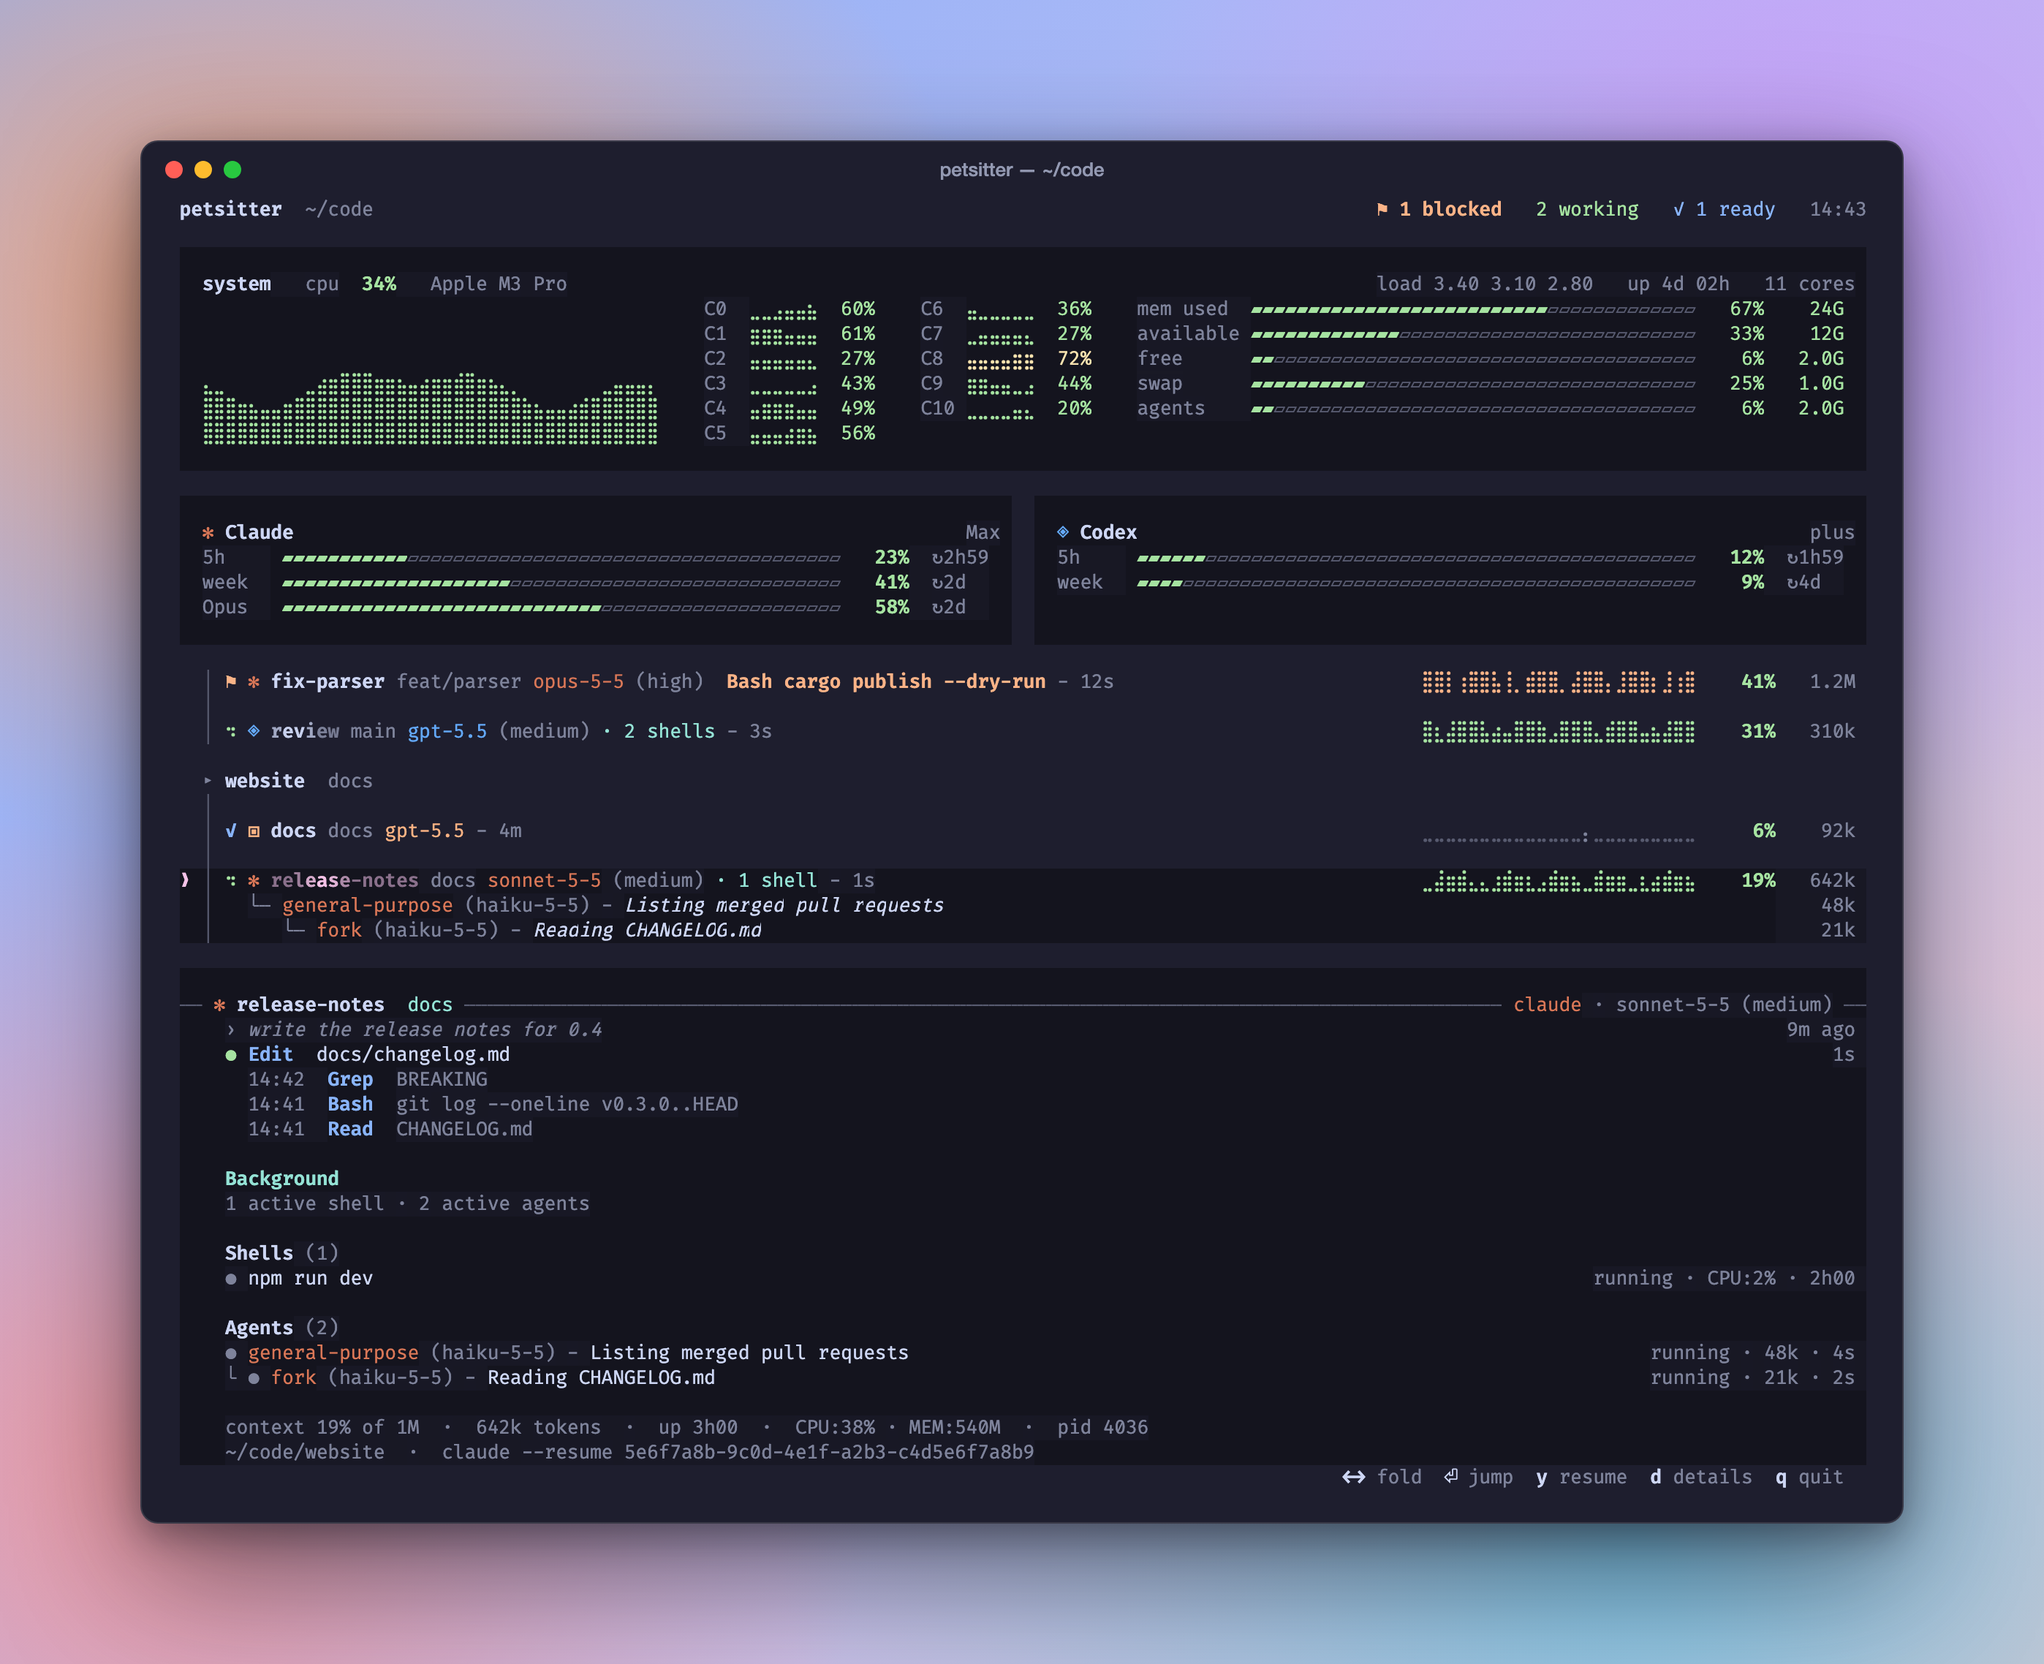
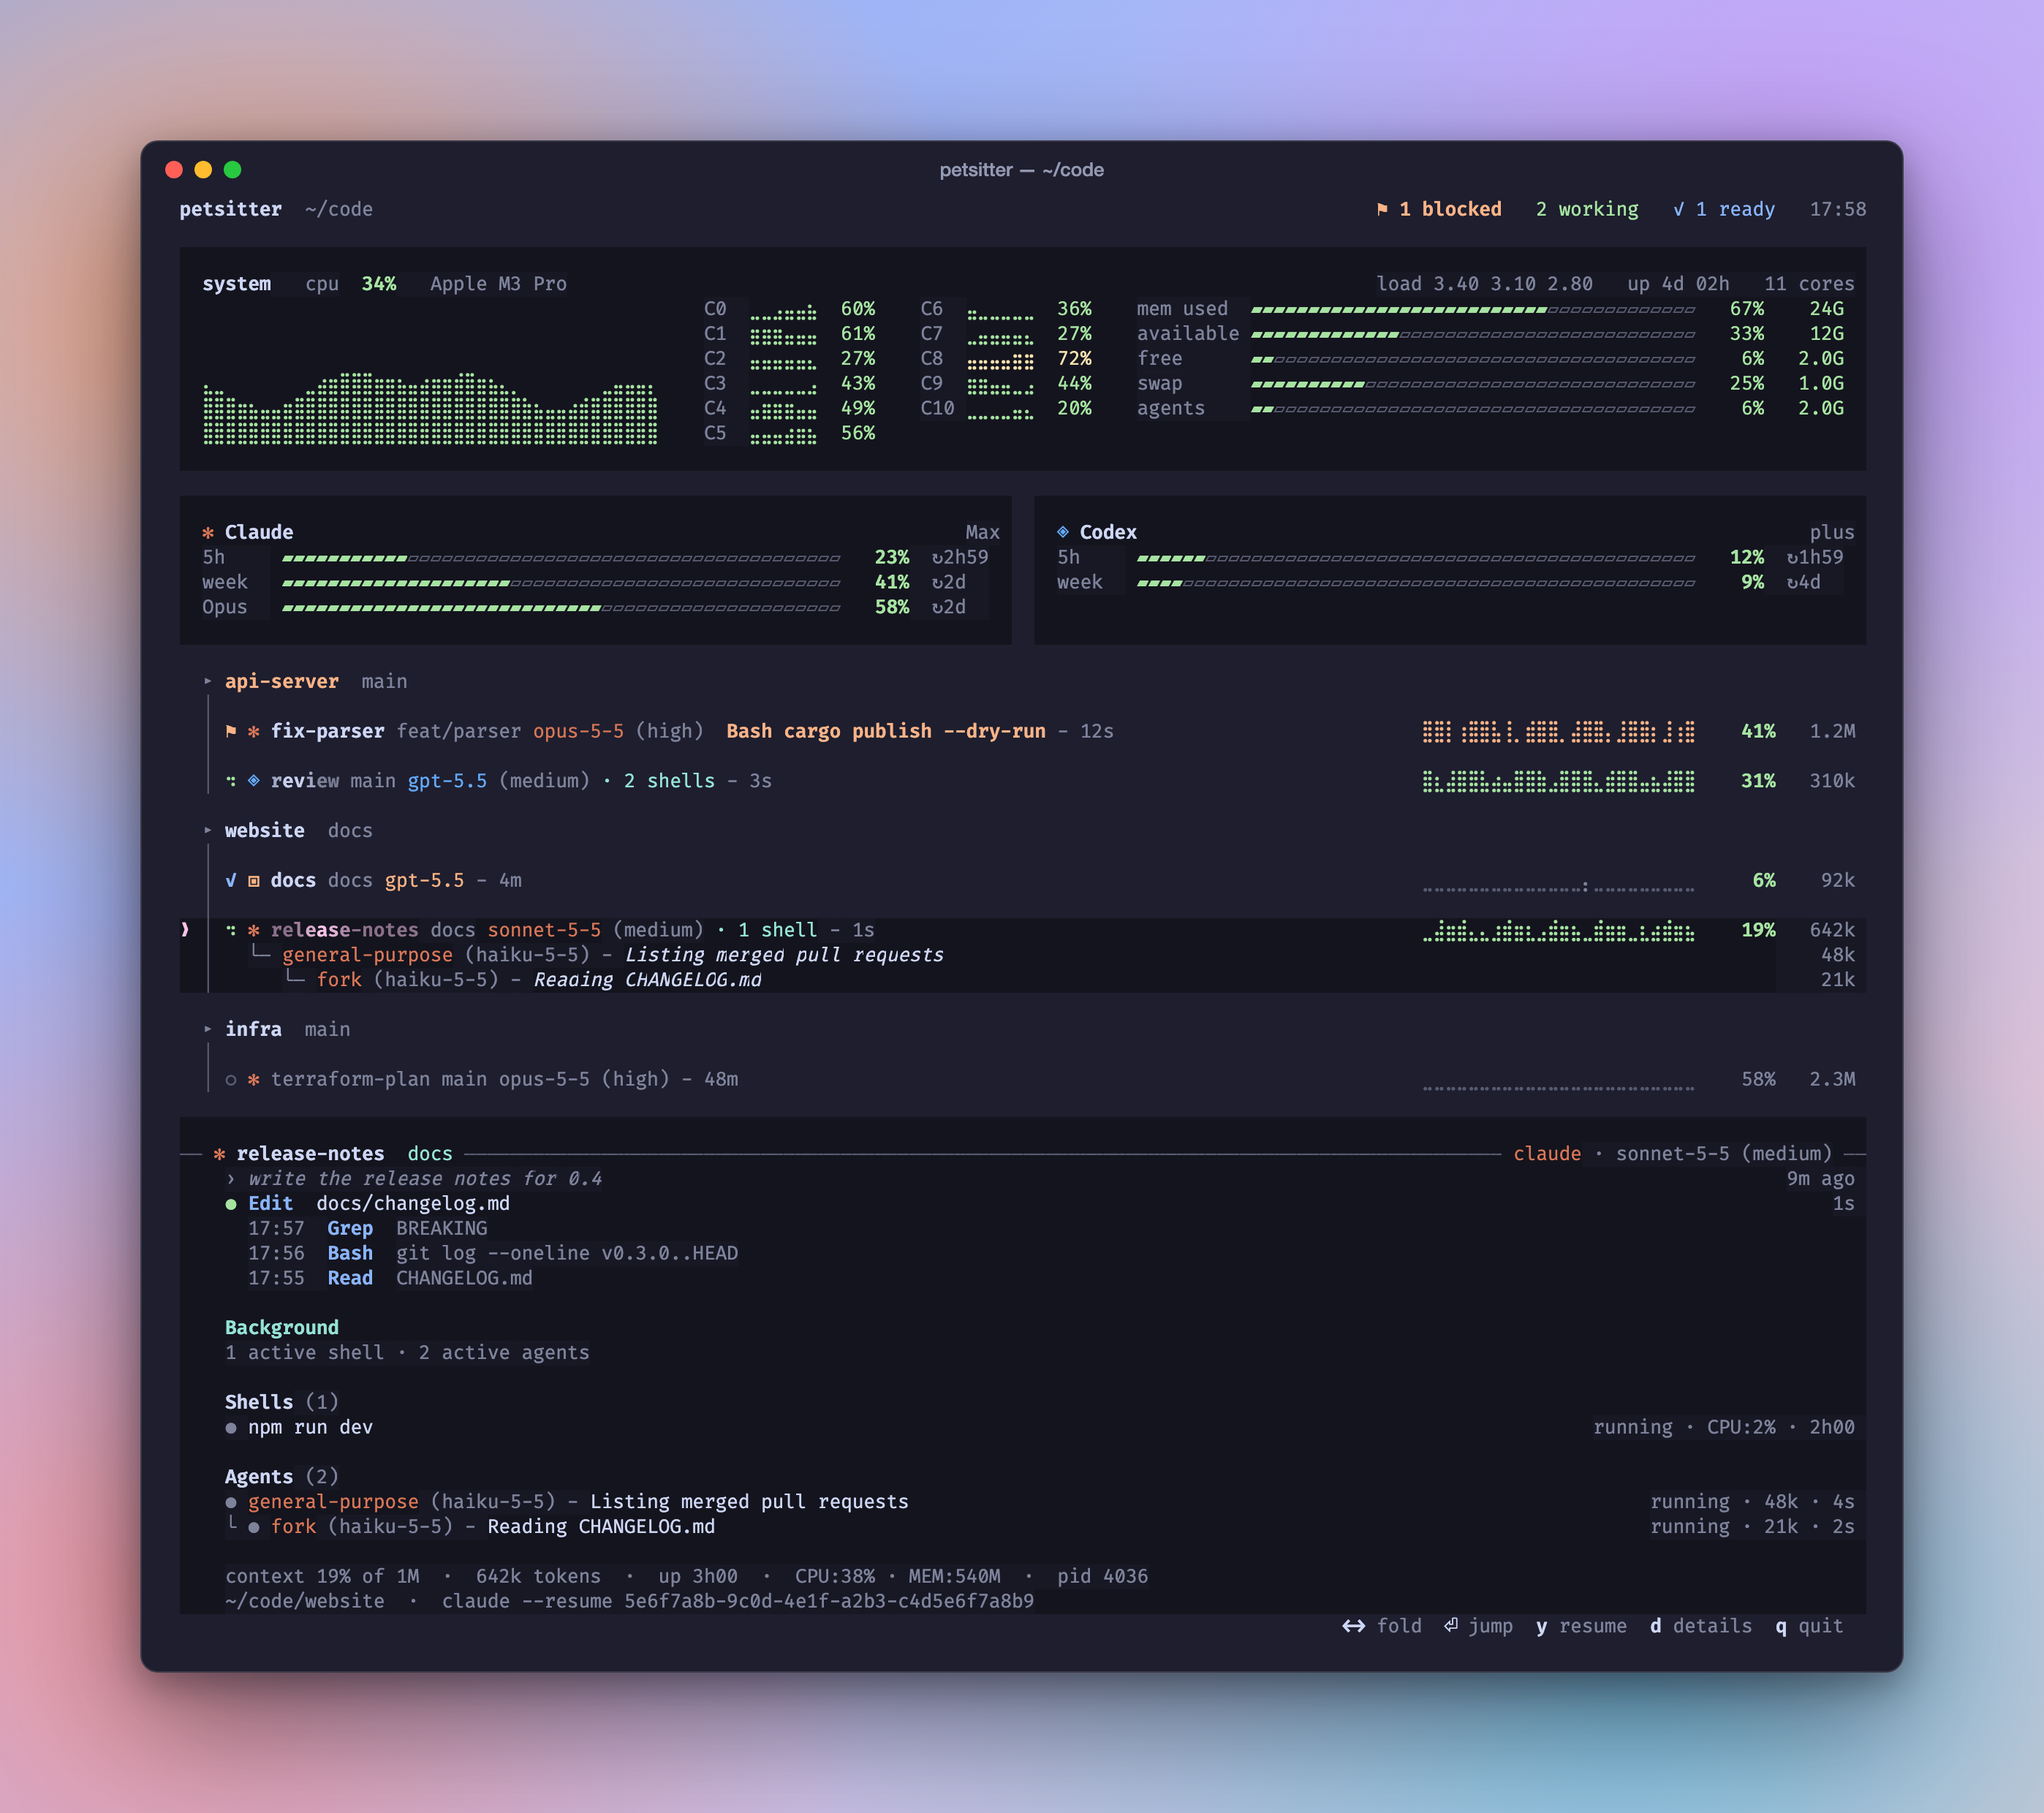
petsitter 0.1.0
First release: a live terminal view of every Claude Code, Codex and
opencode session in a folder, with machine load, quotas, and details on
demand. The README screenshot is redrawn at 150x58, where the whole demo
tree and its details panel fit.

diff --git a/scripts/screenshot.py b/scripts/screenshot.py
@@ -5,7 +5,7 @@ petsitter draws one frame of its demo (`--demo-frame`, made-up sessions)
 as ANSI text; this script lays it out in an HTML page (a macOS-style window
 over an abstract gradient) and has a headless Chrome take the picture.
 
-    python3 scripts/screenshot.py [--chrome PATH] [--size 150x52]
+    python3 scripts/screenshot.py [--chrome PATH] [--size 150x58]
 
 With `--wallpaper WxH PATH` it only paints the wallpaper, for the recording
 made by `scripts/demo.tape`.
@@ -238,7 +238,7 @@ def shoot(chrome, document, width, height, output, scale=2):
 def main():
     parser = argparse.ArgumentParser(description=__doc__.splitlines()[0])
     parser.add_argument("--chrome", help="path to Chrome or Chromium")
-    parser.add_argument("--size", default="150x52", help="terminal size, COLSxROWS")
+    parser.add_argument("--size", default="150x58", help="terminal size, COLSxROWS")
     parser.add_argument("--wallpaper", nargs=2, metavar=("WxH", "PATH"),
                         help="only paint the wallpaper, W by H pixels, to PATH")
     args = parser.parse_args()

diff --git a/.claude/agents/tui-checker.md b/.claude/agents/tui-checker.md
@@ -21,7 +21,7 @@ cargo run --quiet -- --demo-frame 120x40 | sed $'s/\x1b\\[[0-9;]*m//g'
 ```
 
 Render at least these sizes: 80x24 (the classic minimum), 60x20 (a narrow
-split pane), 100x30, 150x52 (the README screenshot), 220x60 (a wide screen),
+split pane), 100x30, 150x58 (the README screenshot), 220x60 (a wide screen),
 and a very short one such as 120x12. Keep the ANSI version too, to check
 styles: which text is bold, dim or reversed, and which colors carry meaning.
 

diff --git a/CHANGELOG.md b/CHANGELOG.md
@@ -6,7 +6,7 @@ All notable changes to this project are documented here. The format follows
 
 ## [Unreleased]
 
-## [0.1.0]
+## [0.1.0] - 2026-11-25
 
 First release.
 
